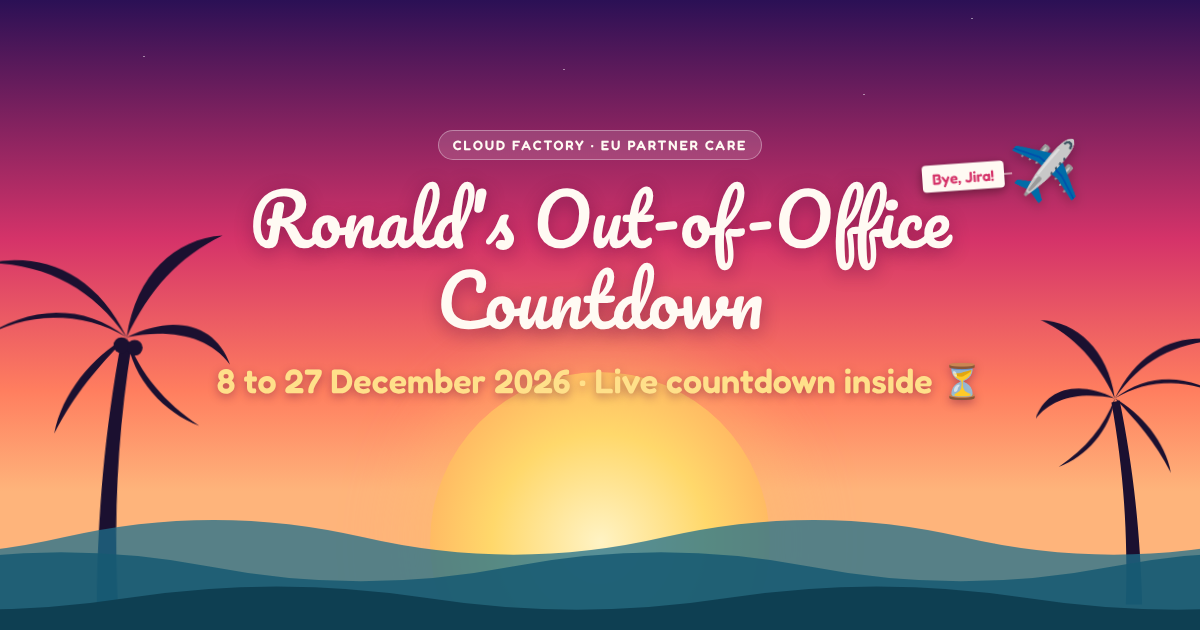
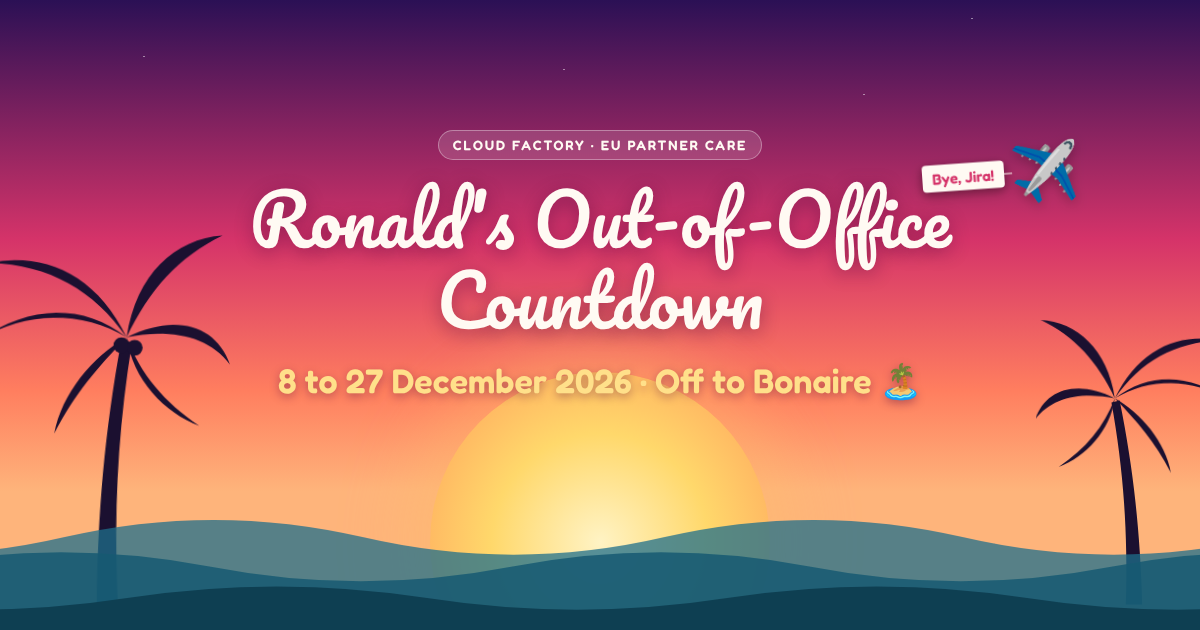
Set return time, destination and contacts
Return 27 Dec 13:00 CET, destination Bonaire, Partner Care and Niek
Bongers as contacts. Share image and description mention Bonaire.

Claude-Session: https://claude.ai/code/session_01XtfrNE2BRYf1tq3Kpwugxo

Changed region(s): [[0.185, 0.573, 0.8325, 0.6635]]

diff --git a/vacation-countdown/index.html b/vacation-countdown/index.html
@@ -10,7 +10,7 @@
   <!-- Open Graph / Teams / Slack previews -->
   <meta property="og:type" content="website">
   <meta property="og:title" content="Ronald's Out-of-Office Countdown">
-  <meta property="og:description" content="Days, hours, minutes and seconds until Ronald is officially on vacation. Plan your questions accordingly.">
+  <meta property="og:description" content="Days, hours, minutes and seconds until Ronald swaps the ticket queue for Bonaire. Plan your questions accordingly.">
   <meta property="og:url" content="https://rowocloudfactory.github.io/vacation/vacation-countdown/">
   <meta property="og:image" content="https://rowocloudfactory.github.io/vacation/vacation-countdown/og-image.png">
   <meta property="og:image:width" content="1200">
@@ -239,7 +239,8 @@
     }
     .info-card h2 { font-size: .8rem; font-weight: 600; letter-spacing: .14em; text-transform: uppercase; color: var(--accent); margin-bottom: 6px; }
     .info-card p { font-size: 1.05rem; line-height: 1.45; }
-    .info-card a { color: var(--text); text-decoration-color: var(--accent); text-underline-offset: 3px; }
+    .contact-sep { display: block; height: 12px; }
+    .info-card a { overflow-wrap: anywhere; color: var(--text); text-decoration-color: var(--accent); text-underline-offset: 3px; }
 
     .welcome .big { font-size: clamp(3rem, 12vw, 6rem); margin-bottom: 6px; }
 
@@ -366,9 +367,16 @@
     const CONFIG = {
       name: "Ronald",
       departure: "2026-12-08T10:00:00+01:00",
-      returnAt:  "2026-12-27T18:00:00+01:00",
-      destination: "Somewhere sunny, far away from the ticket queue 🌞",
-      contactHtml: 'The <strong>Partner Care team</strong>, who are fully briefed and slightly jealous.',
+      returnAt:  "2026-12-27T13:00:00+01:00",
+      destination: "Bonaire 🏝 Caribbean sun, turquoise water and zero Jira tickets 🐠",
+      contactHtml:
+        '<strong>Partner Care</strong><br>' +
+        '<a href="mailto:partnercare@cloudfactorygroup.com">partnercare@cloudfactorygroup.com</a><br>' +
+        '<a href="tel:+31358081227">+31 35 808 1227</a>' +
+        '<span class="contact-sep"></span>' +
+        '<strong>Niek Bongers</strong><br>' +
+        '<a href="mailto:nibo@cloudfactorygroup.com">nibo@cloudfactorygroup.com</a><br>' +
+        '<a href="tel:+31640030865">+31 6 4003 0865</a>',
       messages: [
         "Jira tickets will have to wait 🎫",
         "Out-of-office reply: already written ✍",
